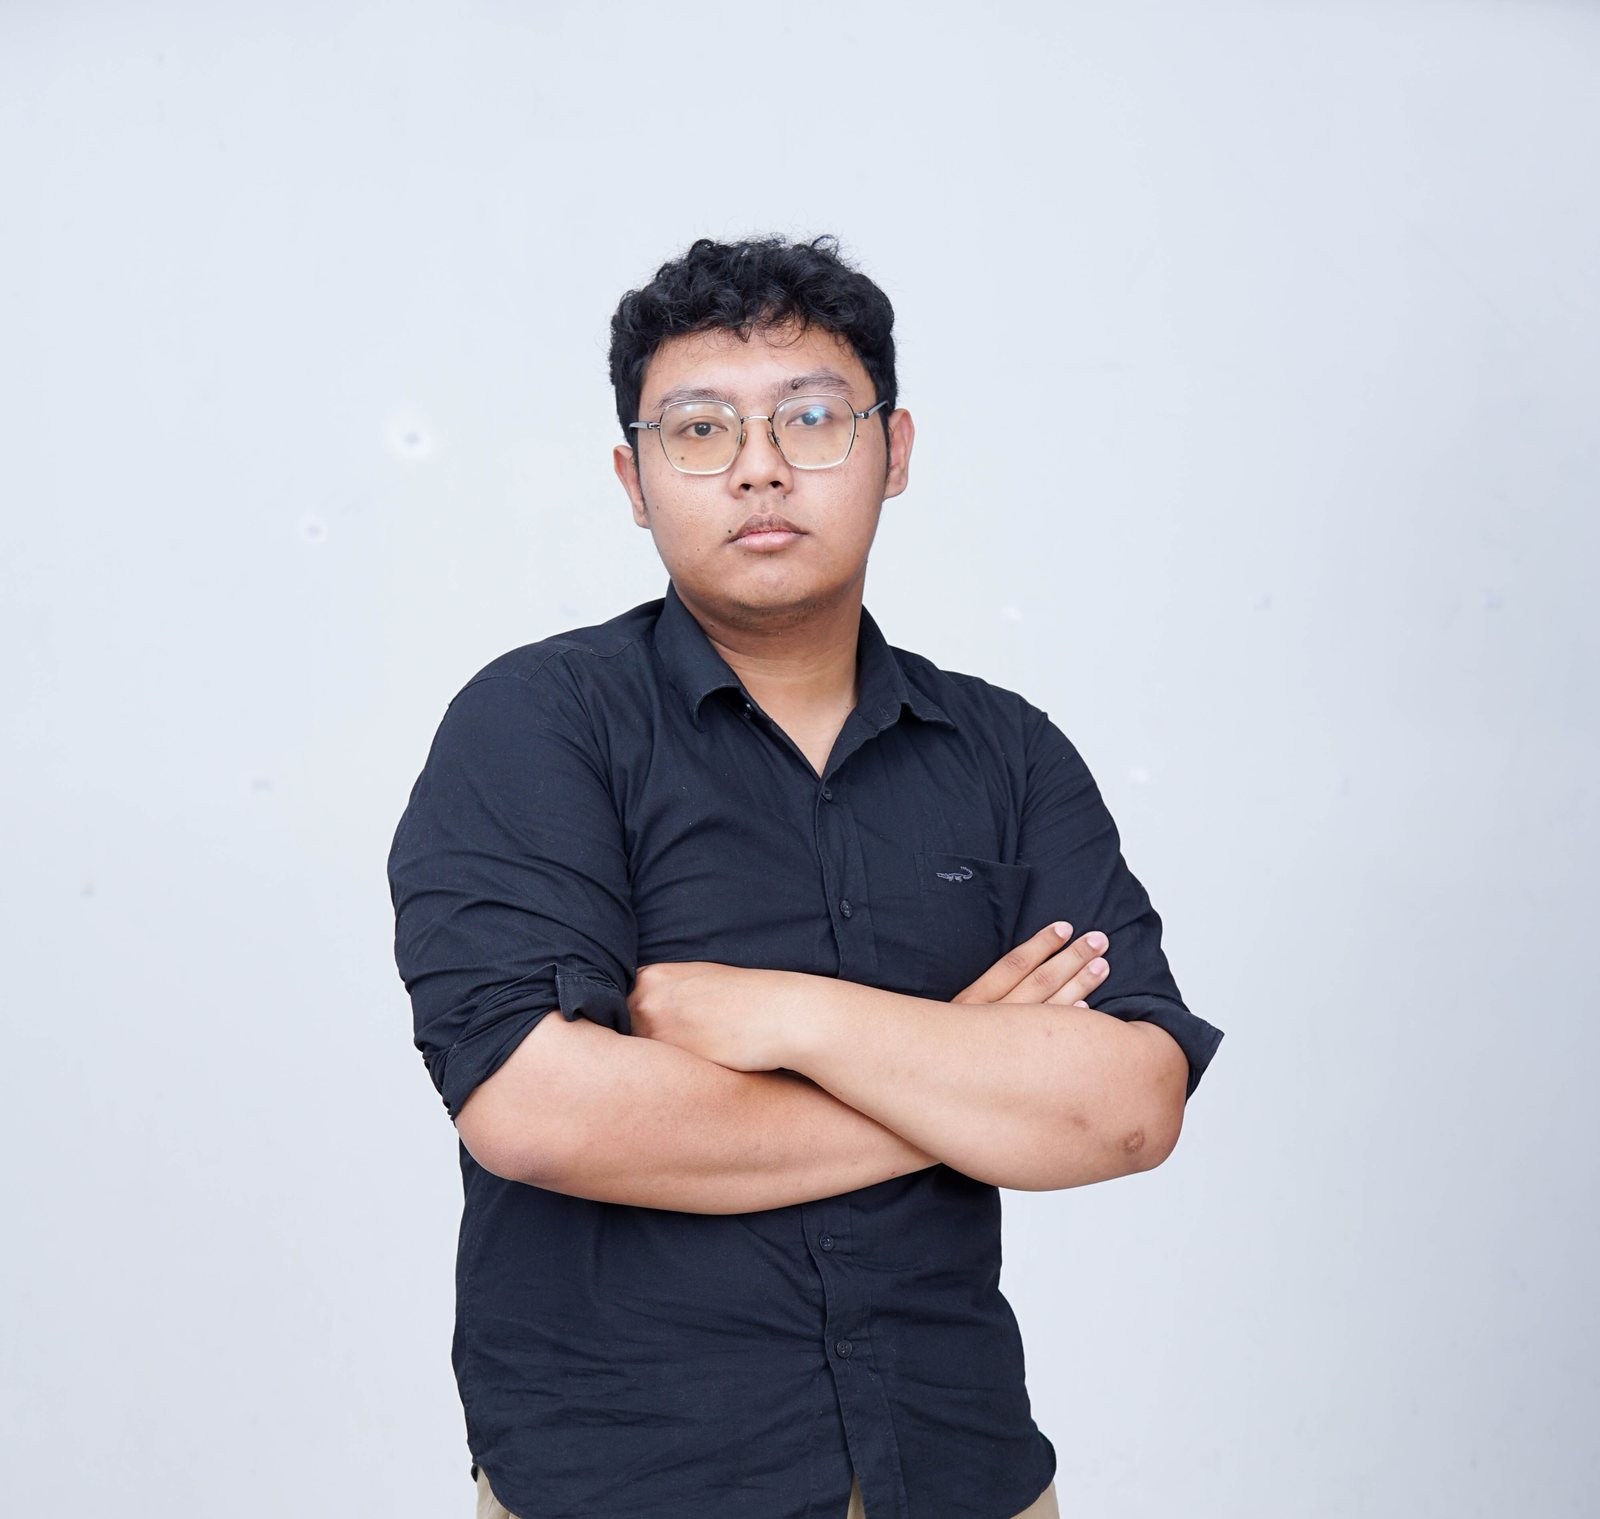
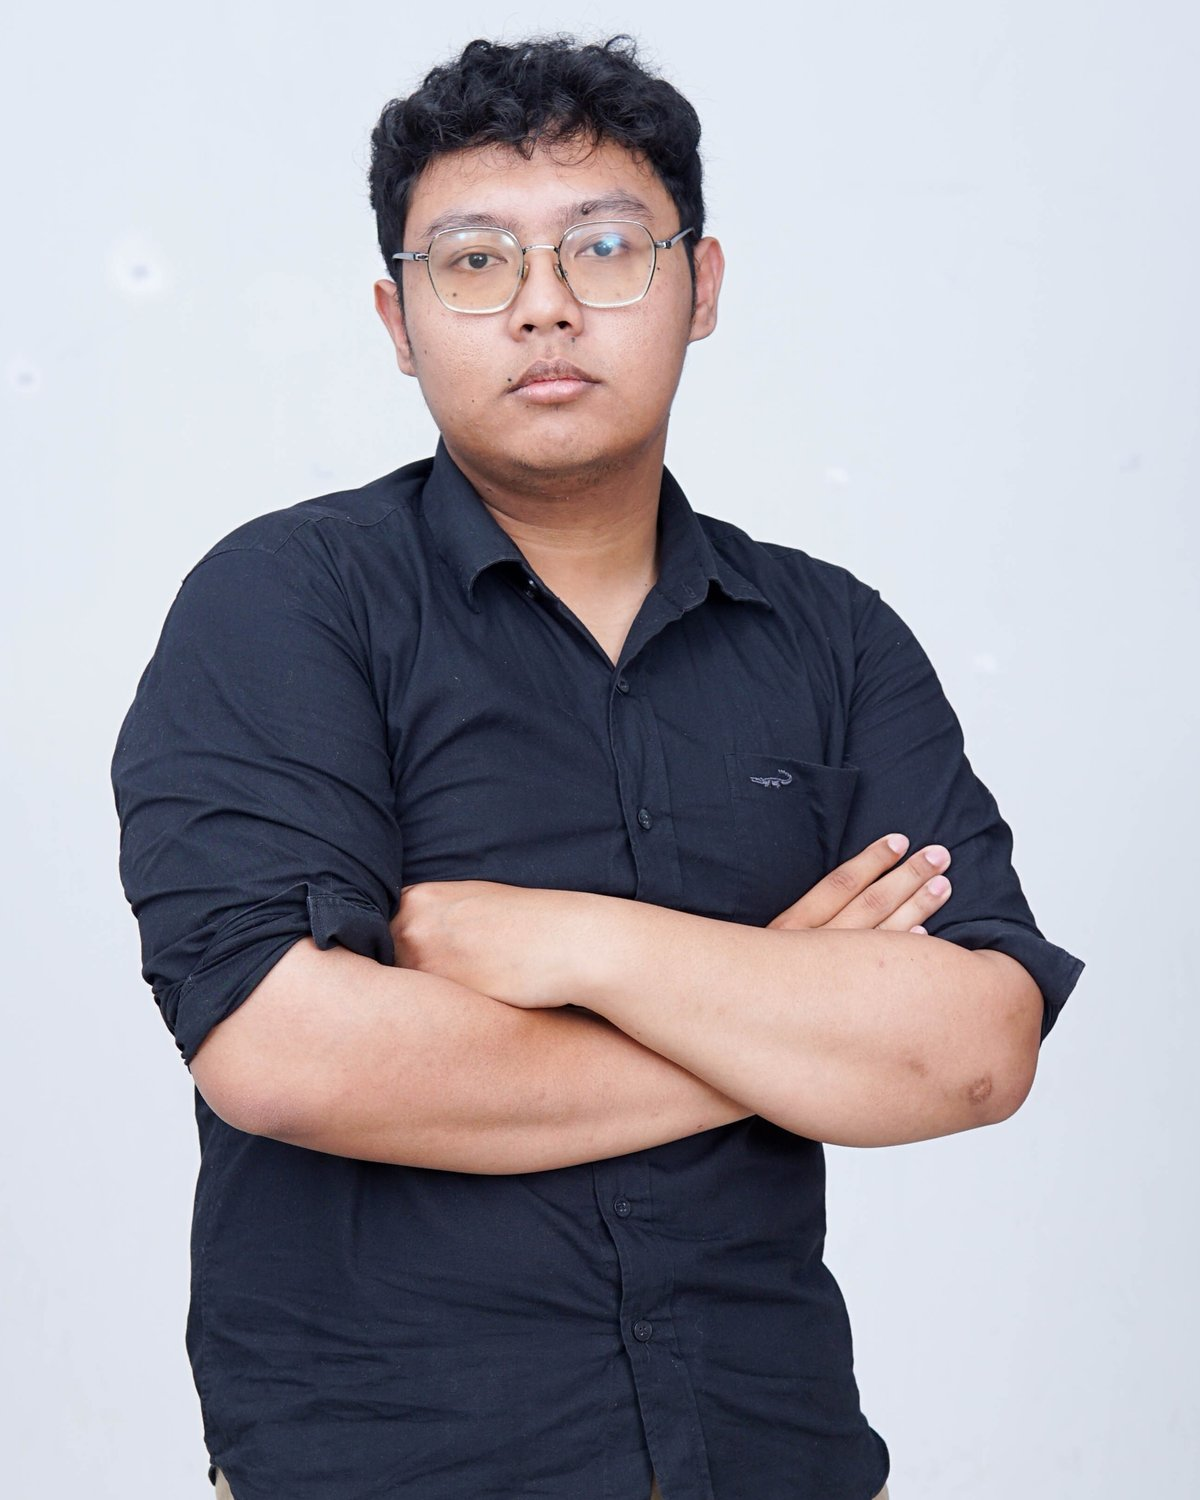
Crop the About portrait to 4:5 and keep its plate on screen
Claude-Session: https://claude.ai/code/session_01JnqhGGpR3Vk5tG3s61FGYx

diff --git a/app/components/About.tsx b/app/components/About.tsx
@@ -24,9 +24,9 @@ export default function About() {
 
         <div className="grid gap-10 lg:gap-16 md:grid-cols-12 md:items-center">
           <MotionWrapper className="md:col-span-5">
-            <div className="relative mx-auto max-w-[22rem]" style={{ perspective: 1200 }}>
+            <div className="relative mx-auto max-w-[19rem] sm:max-w-[22rem] pr-3 pb-3 sm:pr-0 sm:pb-0" style={{ perspective: 1200 }}>
               {/* Offset plate behind the photo gives the tilt a visible back layer. */}
-              <div aria-hidden="true" className="absolute inset-0 translate-x-4 translate-y-4 rounded-2xl border border-accent/60" />
+              <div aria-hidden="true" className="absolute left-0 top-0 right-3 bottom-3 sm:right-0 sm:bottom-0 translate-x-3 translate-y-3 sm:translate-x-4 sm:translate-y-4 rounded-2xl border border-accent/60" />
               <TiltCard intensity={10}>
                 <div className="relative aspect-[4/5] overflow-hidden rounded-2xl bg-surface shadow-[0_30px_60px_-30px_rgba(0,0,0,0.5)]">
                   <Image
@@ -34,7 +34,7 @@ export default function About() {
                     alt="Portrait of Hafiz Nazwa Nugraha"
                     fill
                     sizes="(max-width: 768px) 22rem, 26rem"
-                    className="object-cover object-[50%_25%]"
+                    className="object-cover object-top"
                   />
                 </div>
               </TiltCard>
